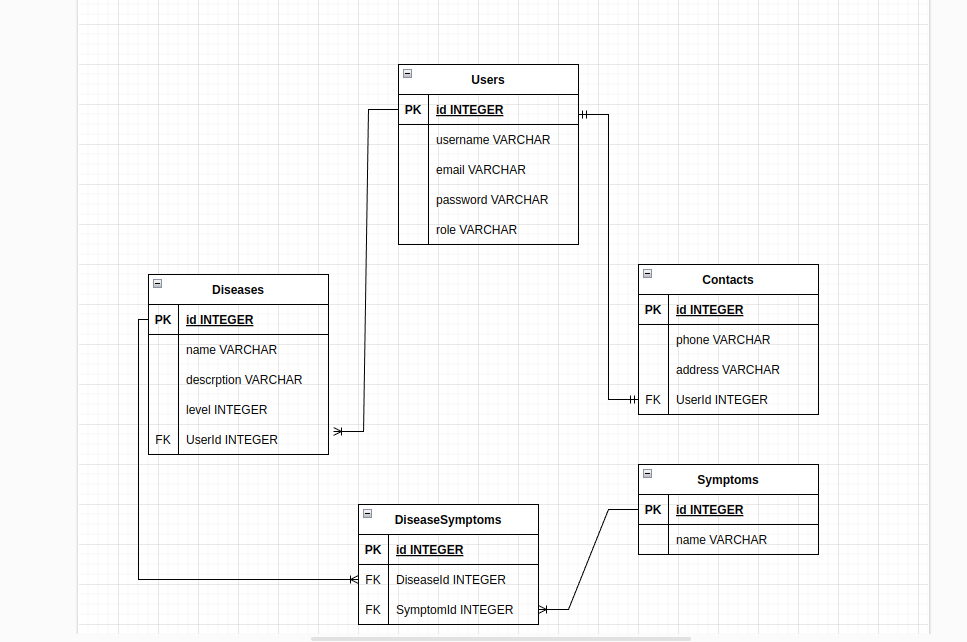
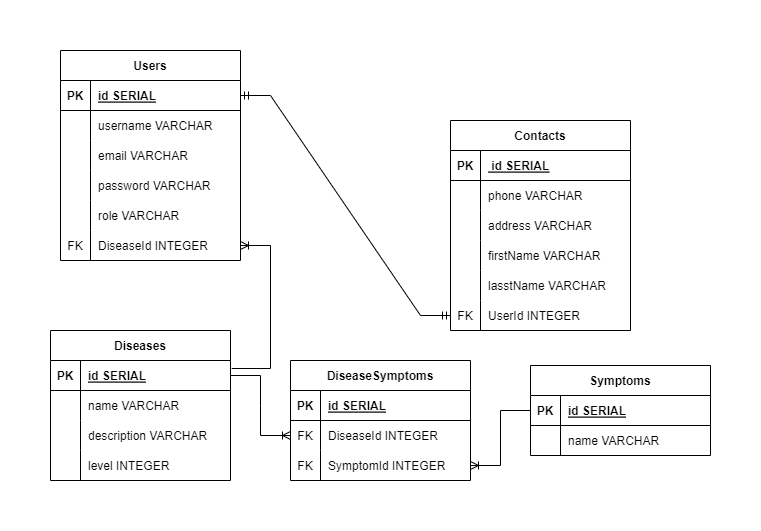
remapping

diff --git a/controllers/UserController.js b/controllers/UserController.js
@@ -1,17 +1,39 @@
-const { User, Disease, Symptom, SymptomDiseases } = require("../models");
+const {
+  User,
+  Disease,
+  Symptom,
+  SymptomDiseases,
+  Contact,
+} = require("../models");
 const bcrypt = require("bcryptjs");
-const { Op } = require('sequelize')
-const sendMail = require('../helpers/sendMail')
+const { Op } = require("sequelize");
+const sendMail = require("../helpers/sendMail");
 
 class UserController {
   static registerForm(req, res) {
-    res.render("registerForm");
+    Disease.findAll()
+      .then((diseases) => res.render("registerForm", { diseases }))
+      .catch((err) => res.send(err));
   }
   static postRegister(req, res) {
-    let { username, email, password, role } = req.body;
-    User.create({ username, email, password, role })
+    let {
+      phone,
+      address,
+      firstName,
+      lastName,
+      username,
+      email,
+      password,
+      role,
+      DiseaseId,
+    } = req.body;
+    // res.send(req.body)
+    User.create({ username, email, password, role, DiseaseId })
       .then(() => {
-        sendMail(email)
+        return Contact.create({ phone, address, firstName, lastName });
+      })
+      .then(() => {
+        sendMail(email);
         res.redirect("/login");
       })
       .catch((err) => res.send(err));
@@ -44,15 +66,18 @@ class UserController {
   }
 
   static users(req, res) {
-    let {search} = req.query
-    let options = {where : {role : 'patient'},include: Disease}
+    let { search } = req.query;
+    let options = {
+      where: { role: "patient" },
+      include: [{ model: Disease }, { model: Contact }],
+    };
     if (search) {
       options.where.username = {
-        [Op.iLike] : `%${search}%`
-      }
+        [Op.iLike]: `%${search}%`,
+      };
     }
     User.findAll(options)
-    // .then(data=>res.send(data))
+      // .then(data=>res.send(data))
       .then((users) => res.render("users", { users }))
       .catch((err) => res.send(err));
   }
@@ -62,21 +87,56 @@ class UserController {
       if (err) {
         res.send(err);
       } else {
-        res.redirect('/')
+        res.redirect("/");
       }
     });
   }
-  // static getSymptom(req, res) {
-  //   const id = req.params.id
-  //   User.findByPk(id, {
-  //     include: 
-  //     Symptom
-  //   })
-  //   .then(patients => {
-  //     const symptoms = patients.Symptom.map(el => el.id)
-  //     return Disease.findOne({include: [{model: SymptomDiseases, where: symptoms}]})
-  //   })
-  // }
+  static deleteUser(req, res) {
+    const id = req.params.id;
+    User.findByPk(id)
+    .then((user) => {
+      if (!user) throw new Error ("User Not found");
+      return user.destroy();
+    })
+    .then(()=> {return Contact.findByPk(id)})
+    .then((contact) => {
+      if (!contact) throw new Error ("Contact Not found");
+      return contact.destroy();
+    })
+      .then(() => res.redirect("/users"))
+      .catch((err) => res.send(err));
+    }
+    
+    static editUser(req,res){
+    const id = req.params.id;
+    let options = {
+      where: { role: "patient" },
+      include: { model: Contact },
+    };
+    let data = {}
+    Disease.findAll()
+    .then(diseases=>{
+      data.diseases = diseases
+      return User.findByPk(id,options)
+    })
+      .then((user) =>{
+        data.user = user
+        res.render("editUser", { ...data })} )
+      .catch((err) => res.send(err));
+  }
+  static updateUser(req,res){
+    let {id} = req.params
+    let {firstName,lastName,phone,address,username,email,DiseaseId} =req.body
+    // res.send(req.body)
+    User.update({ username, email, DiseaseId },{where:{id}})
+      .then(() => {
+        return Contact.update({ phone, address, firstName, lastName },{where:{id}});
+      })
+      .then(() => {
+        res.redirect("/users");
+      })
+      .catch((err) => res.send(err));
+  }
 }
 
 module.exports = UserController;

diff --git a/routers/index.js b/routers/index.js
@@ -13,13 +13,13 @@ router.post('/register', UserController.postRegister)
 router.get('/login', UserController.loginForm)
 router.post('/login', UserController.postLogin)
 
-router.use((req, res, next) => {
-  if (!req.session.userId) {
-    res.redirect('/login')
-  } else {
-    next()
-  }
-})
+// router.use((req, res, next) => {
+//   if (!req.session.userId) {
+//     res.redirect('/login')
+//   } else {
+//     next()
+//   }
+// })
 
 router.get('/diseases', DiseaseController.diseases)
 router.get('/symptoms', SymptomController.symptoms)
@@ -31,9 +31,10 @@ router.get('/logout', UserController.getLogout)
 router.get('/home', (req, res) => {
   res.render('home')
 })
-router.get('/contacts/add', ContactController.addContacts)
-router.post('/contacts/add', ContactController.createContacts)
-router.get('/contacts/:id/delete', ContactController.deleteContacts)
+router.get('/users/:id/edit', UserController.editUser)
+router.post('/users/:id/edit', UserController.updateUser)
+router.get('/users/:id/delete', UserController.deleteUser)
+
 router.get('/diseases', DiseaseController.diseases)
 router.get('/symptoms', SymptomController.addSymptoms)
 router.post('/symptoms', SymptomController.createSymptoms)

diff --git a/migrations/20230112181529-add-fk-to-diseasesymptoms.js b/migrations/20230112181529-add-fk-to-diseasesymptoms.js
@@ -9,15 +9,12 @@ module.exports = {
      * Example:
      * await queryInterface.createTable('users', { id: Sequelize.INTEGER });
      */
-    return queryInterface.addColumn('Contacts','UserId', {
-      type:Sequelize.INTEGER,
-      references: {
-        model: {
-          tableName: 'Users'
-        },
-        key: 'id'
+    return queryInterface.addColumn('DiseaseSymptoms','SymptomId', {
+      type: Sequelize.INTEGER,
+      references : {
+        model : 'Symptoms'
       }
-    })
+    },)
   },
 
    down (queryInterface, Sequelize) {
@@ -27,6 +24,6 @@ module.exports = {
      * Example:
      * await queryInterface.dropTable('users');
      */
-     return queryInterface.removeColumn('Contacts','UserId', Sequelize.INTEGER)
+    return queryInterface.removeColumn('DiseaseSymptoms','SymptomId')
   }
 };

diff --git a/models/contact.js b/models/contact.js
@@ -39,6 +39,30 @@ module.exports = (sequelize, DataTypes) => {
         }
       }
     },
+    firstName: {
+      type: DataTypes.STRING,
+      allowNull: false,
+      validate: {
+        notNull: {
+          msg: "first name can't be null"
+        },
+        notEmpty : {
+            msg: "first can't be empty"
+        }
+      }
+    },
+    lastName: {
+      type: DataTypes.STRING,
+      allowNull: false,
+      validate: {
+        notNull: {
+          msg: "last name can't be null"
+        },
+        notEmpty : {
+            msg: "last name can't be empty"
+        }
+      }
+    },
     UserId: DataTypes.INTEGER
 
   }, {

diff --git a/migrations/20230111220641-create-contact.js b/migrations/20230111220641-create-contact.js
@@ -15,6 +15,21 @@ module.exports = {
       address: {
         type: Sequelize.STRING
       },
+      firstName: {
+        type: Sequelize.STRING
+      },
+      lastName: {
+        type: Sequelize.STRING
+      },
+      UserId: {
+        allowNull: false,
+        autoIncrement: true,
+        primaryKey: true,
+        type: Sequelize.INTEGER,
+        references : {model: 'Users'},
+        onDelete: 'CASCADE',
+        onUpdatete: 'CASCADE',
+      },
       createdAt: {
         allowNull: false,
         type: Sequelize.DATE

diff --git a/models/disease.js b/models/disease.js
@@ -11,15 +11,14 @@ module.exports = (sequelize, DataTypes) => {
      */
     static associate(models) {
       // define association here
-      Disease.belongsTo(models.User),
+      Disease.hasMany(models.User),
       Disease.belongsToMany(models.Symptom, { through: models.DiseaseSymptom });
     }
   }
   Disease.init({
     name: DataTypes.STRING,
     description: DataTypes.STRING,
-    level: DataTypes.INTEGER,
-    UserId: DataTypes.INTEGER
+    level: DataTypes.INTEGER
   }, {
     sequelize,
     modelName: 'Disease',

diff --git a/models/user.js b/models/user.js
@@ -11,7 +11,7 @@ module.exports = (sequelize, DataTypes) => {
      */
     static associate(models) {
       // define association here
-      User.hasMany(models.Disease)
+      User.belongsTo(models.Disease)
       User.hasOne(models.Contact)
     }
   }
@@ -21,6 +21,7 @@ module.exports = (sequelize, DataTypes) => {
       email: DataTypes.STRING,
       password: DataTypes.STRING,
       role: DataTypes.STRING,
+      DiseaseId : DataTypes.STRING,
     },
     {
       sequelize,

diff --git a/migrations/20230111191103-create-user.js b/migrations/20230111191103-create-user.js
@@ -21,6 +21,13 @@ module.exports = {
       role: {
         type: Sequelize.STRING
       },
+      DiseaseId :{type: Sequelize.INTEGER,
+        references: { 
+          model : {
+            tableName: 'Diseases'
+          },
+          key: 'id'
+        }},
       createdAt: {
         allowNull: false,
         type: Sequelize.DATE

diff --git a/migrations/20230111020823-create-disease.js b/migrations/20230111020823-create-disease.js
@@ -18,13 +18,6 @@ module.exports = {
       level: {
         type: Sequelize.INTEGER
       },
-      UserId :{type: Sequelize.INTEGER,
-      references: { 
-        model : {
-          tableName: 'Users'
-        },
-        key: 'id'
-      }},
       createdAt: {
         allowNull: false,
         type: Sequelize.DATE

diff --git a/migrations/20230112034703-create-disease-symptom.js b/migrations/20230112034703-create-disease-symptom.js
@@ -15,12 +15,6 @@ module.exports = {
           model : 'Diseases'
         }
       },
-      SymptomId: {
-        type: Sequelize.INTEGER,
-        references : {
-          model : 'Symptoms'
-        }
-      },
       createdAt: {
         allowNull: false,
         type: Sequelize.DATE
